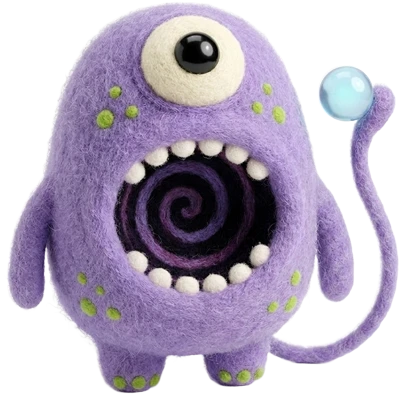
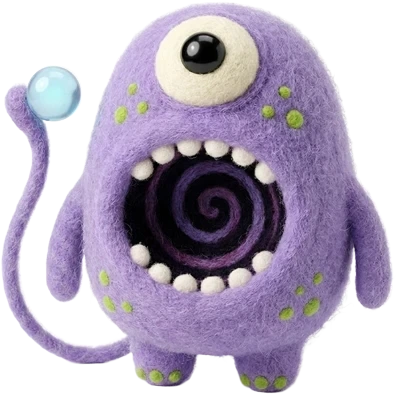
fix: 펠트 고브럽을 첨부 원본 구도로 확정 — 꼬리 왼쪽·구슬은 꼬리 끝(원본과 동일한 유리구슬), 좌우반전 후처리로 형태 보존. goblub-felt.webp v3, tale.js v21. 중간구슬 시안 4종·선택 페이지 정리

diff --git a/play/js/tale.js b/play/js/tale.js
@@ -255,7 +255,7 @@ box-shadow:0 0 0 100vmax #040308,0 0 70px rgba(0,0,0,.8)}}";
       '<video class="tale-bgv" playsinline muted autoplay loop preload="auto"></video>' +
       '<div class="tale-bg a"></div><div class="tale-bg b"></div>' +
       '<div class="tale-vig"></div>' +
-      '<div class="tale-gob"><img src="img/tale/goblub-felt.webp?v=2" alt="고브럽" ' +
+      '<div class="tale-gob"><img src="img/tale/goblub-felt.webp?v=3" alt="고브럽" ' +
       'style="width:160px;height:auto;display:block" draggable="false" /></div>' +
       '<div class="tale-vortex"></div>' +
       '<video class="tale-vid" playsinline webkit-playsinline muted preload="auto"></video>' +

diff --git a/play/saju-premium.html b/play/saju-premium.html
@@ -293,7 +293,7 @@
   <script src="js/goblub-art.js"></script>
   <script src="js/report-ui.js?v=6"></script>
   <script src="js/gwigok-audio.js?v=1"></script>
-  <script src="js/tale.js?v=20"></script>
+  <script src="js/tale.js?v=21"></script>
   <script>
     (function () {
       var $ = function (id) { return document.getElementById(id); };
